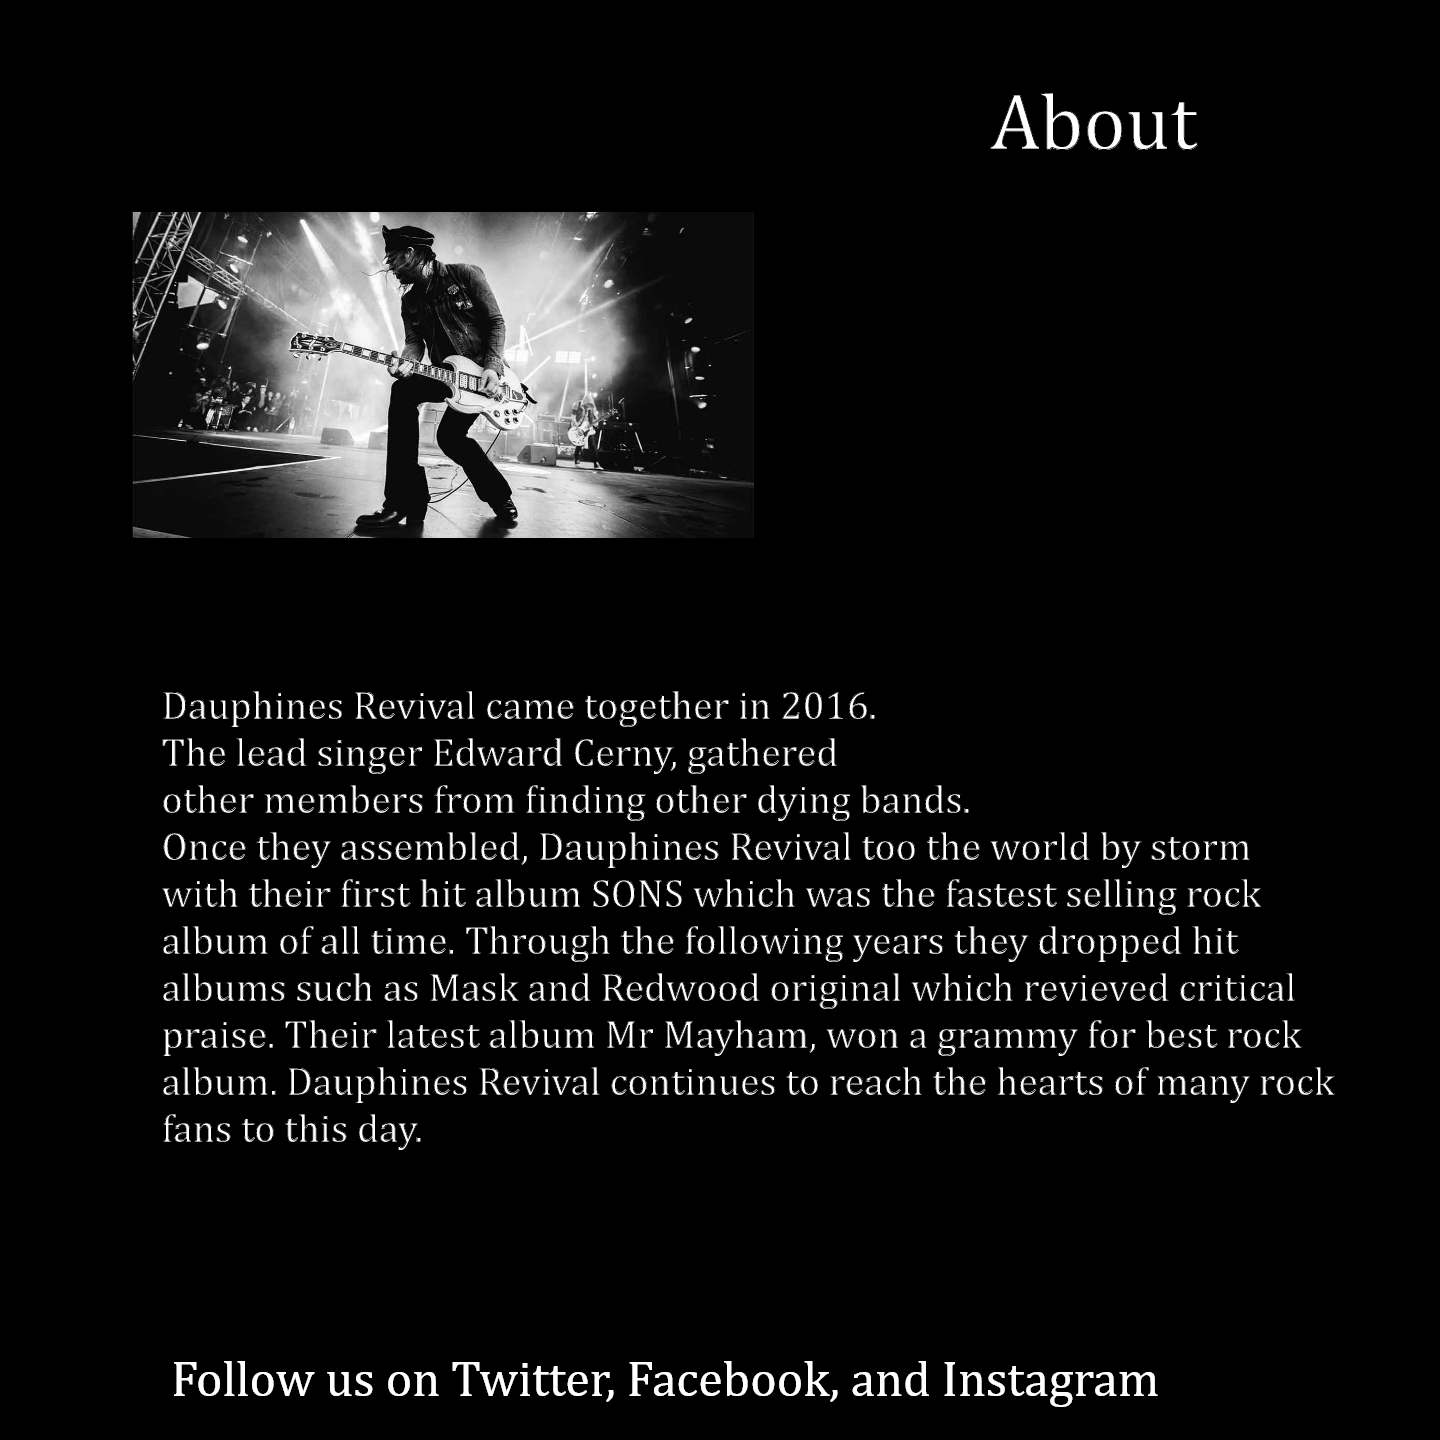
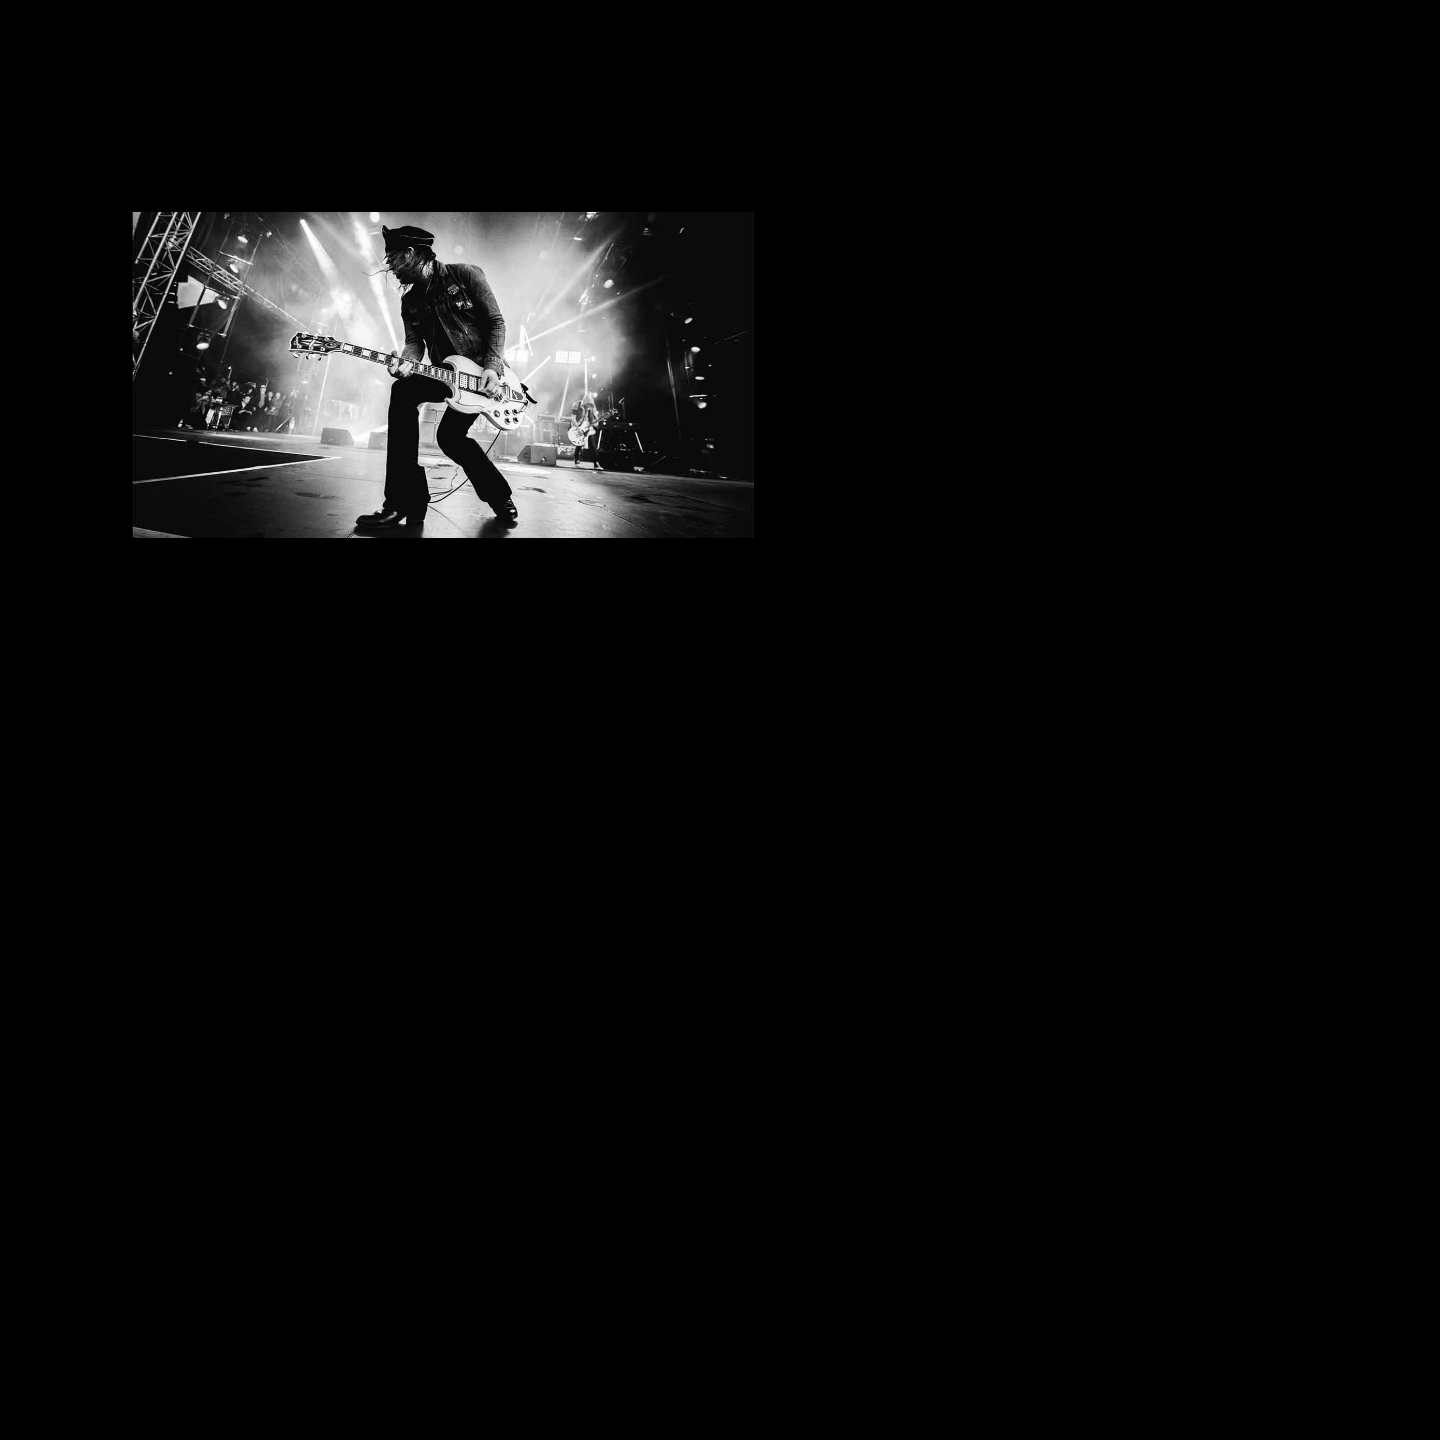
p

Changed region(s): [[0.0938, 0.4688, 0.9062, 0.8125], [0.125, 0.9375, 0.8125, 0.9688], [0.6875, 0.0625, 0.8438, 0.125]]

diff --git a/project1/About/index.html b/project1/About/index.html
@@ -3,22 +3,38 @@
   <head>
     <meta charset="utf-8">
     <title>Dauphine's Revival</title>
-    <link rel="stylesheet" href="css/main.css">
+    <link rel="stylesheet" href="../css/main.css">
   </head>
   <body>
-    <header>
-    <nav>
-        <img src="title.png" alt="Title">
-      </nav>
-      <nav>
-        <ul>
+      <header>
+        <h1>Dauphine Revival</h1>
+        <nav>
+          <ul>
           <li><a href="../About/index.html">ABOUT</a></li>
-          <li><a href="../Music/index.html">MUSIC</li>
-          <li><a href="../Tour/index.html">TOUR</li>
-          <li><a href="../index.html">HOME</li>
-        </ul>
-      </nav>
-    </header>
-     <img src="aboutpg3.png" alt="Image of the Band">
+          <li><a href="../Music/index.html">MUSIC</a></li>
+          <li><a href="../Tour/index.html">TOUR</a></li>
+          <li><a href="../index.html">HOME</a></li>
+          </ul>
+        </nav>
+      </header>
+      <main>
+        <div class="col">
+          <img src="aboutpg3.png" alt="Image of the Band">
+    </div>
+    <div class="col">
+      <h1>About</h1>
+     <p class="About">Dauphines Revival came together in 2016.
+The lead singer Edward Cerny, gathered
+other members from finding other dying bands.
+Once they assembled, Dauphines Revival too the world by storm
+with their first hit album SONS which was the fastest selling rock
+album of all time. Through the following years they dropped hit
+albums such as Mask and Redwood original which revieved critical
+praise. Their latest album Mr Mayham, won a grammy for best rock
+album. Dauphines Revival continues to reach the hearts of many rock
+fans to this day.</p>
+  <footer>
+ <p>Website by Ekwochi Njeze</p>
+  </footer>
   </body>
 </html>

diff --git a/project1/css/main.css b/project1/css/main.css
@@ -1,8 +1,38 @@
+/* Step1: What do  want to style?
+Step2: Type the selector
+Step3: You want an open curly bracket and a closing cuely bracket
+Step4: Type the property you want to change. Follow by a colon
+Step5: type the value you want followed by a semi colon.
+Step6: Repead steps 4 and 5 to style everything else. */
+
 *{
   box-sizing: border-box;
 }
 body{
   background-color: black;
-  color: black;
+  color: white;
   margin: 0;
 }
+header li{
+  display: inline;
+}
+header nav{
+  float: left;
+}
+header h1{
+  float: left;
+}
+.About{
+  color: white;
+  font-size: 16px;
+  margin: 100px 35px 100px 35px;
+}
+.col{
+  width: 50%;
+  float: left;
+}
+li{
+  font-size: 20px;
+  color: #EFEFEF;
+  margin: 10px;
+  list-style-type: none;

diff --git a/project1/index.html b/project1/index.html
@@ -7,18 +7,17 @@
   </head>
   <body>
     <header>
-    <nav>
-        <img src="title.png" alt="Title">
-      </nav>
+      <h1>Dauphine Revival</h1>
       <nav>
         <ul>
           <li><a href="About/index.html">ABOUT</a></li>
-          <li><a href="Music/index.html">MUSIC</li>
-          <li><a href="Tour/index.html">TOUR</li>
-          <li><a href="index.html">HOME</li>
+          <li><a href="Music/index.html">MUSIC</a></li>
+          <li><a href="Tour/index.html">TOUR</a></li>
+          <li><a href="index.html">HOME</a></li>
         </ul>
       </nav>
     </header>
      <img src="HOMEPG3.png" alt="Image of the Band">
-  </body>
-</html>
+    <footer>
+    </div>
+</main>

diff --git a/project1/Music/index.html b/project1/Music/index.html
@@ -13,9 +13,9 @@
       <nav>
         <ul>
           <li><a href="../About/index.html">ABOUT</a></li>
-          <li><a href="../Music/index.html">MUSIC</li>
-          <li><a href="../Tour/index.html">TOUR</li>
-          <li><a href="../index.html">HOME</li>
+          <li><a href="../Music/index.html">MUSIC</a></li>
+          <li><a href="../Tour/index.html">TOUR</a></li>
+          <li><a href="../index.html">HOME</a></li>
         </ul>
       </nav>
     </header>

diff --git a/project1/Tour/index.html b/project1/Tour/index.html
@@ -13,9 +13,9 @@
       <nav>
         <ul>
           <li><a href="../About/index.html">ABOUT</a></li>
-          <li><a href="../Music/index.html">MUSIC</li>
-          <li><a href="../Tour/index.html">TOUR</li>
-          <li><a href="../index.html">HOME</li>
+          <li><a href="../Music/index.html">MUSIC</a></li>
+          <li><a href="../Tour/index.html">TOUR</a></li>
+          <li><a href="../index.html">HOME</a></li>
         </ul>
       </nav>
     </header>
